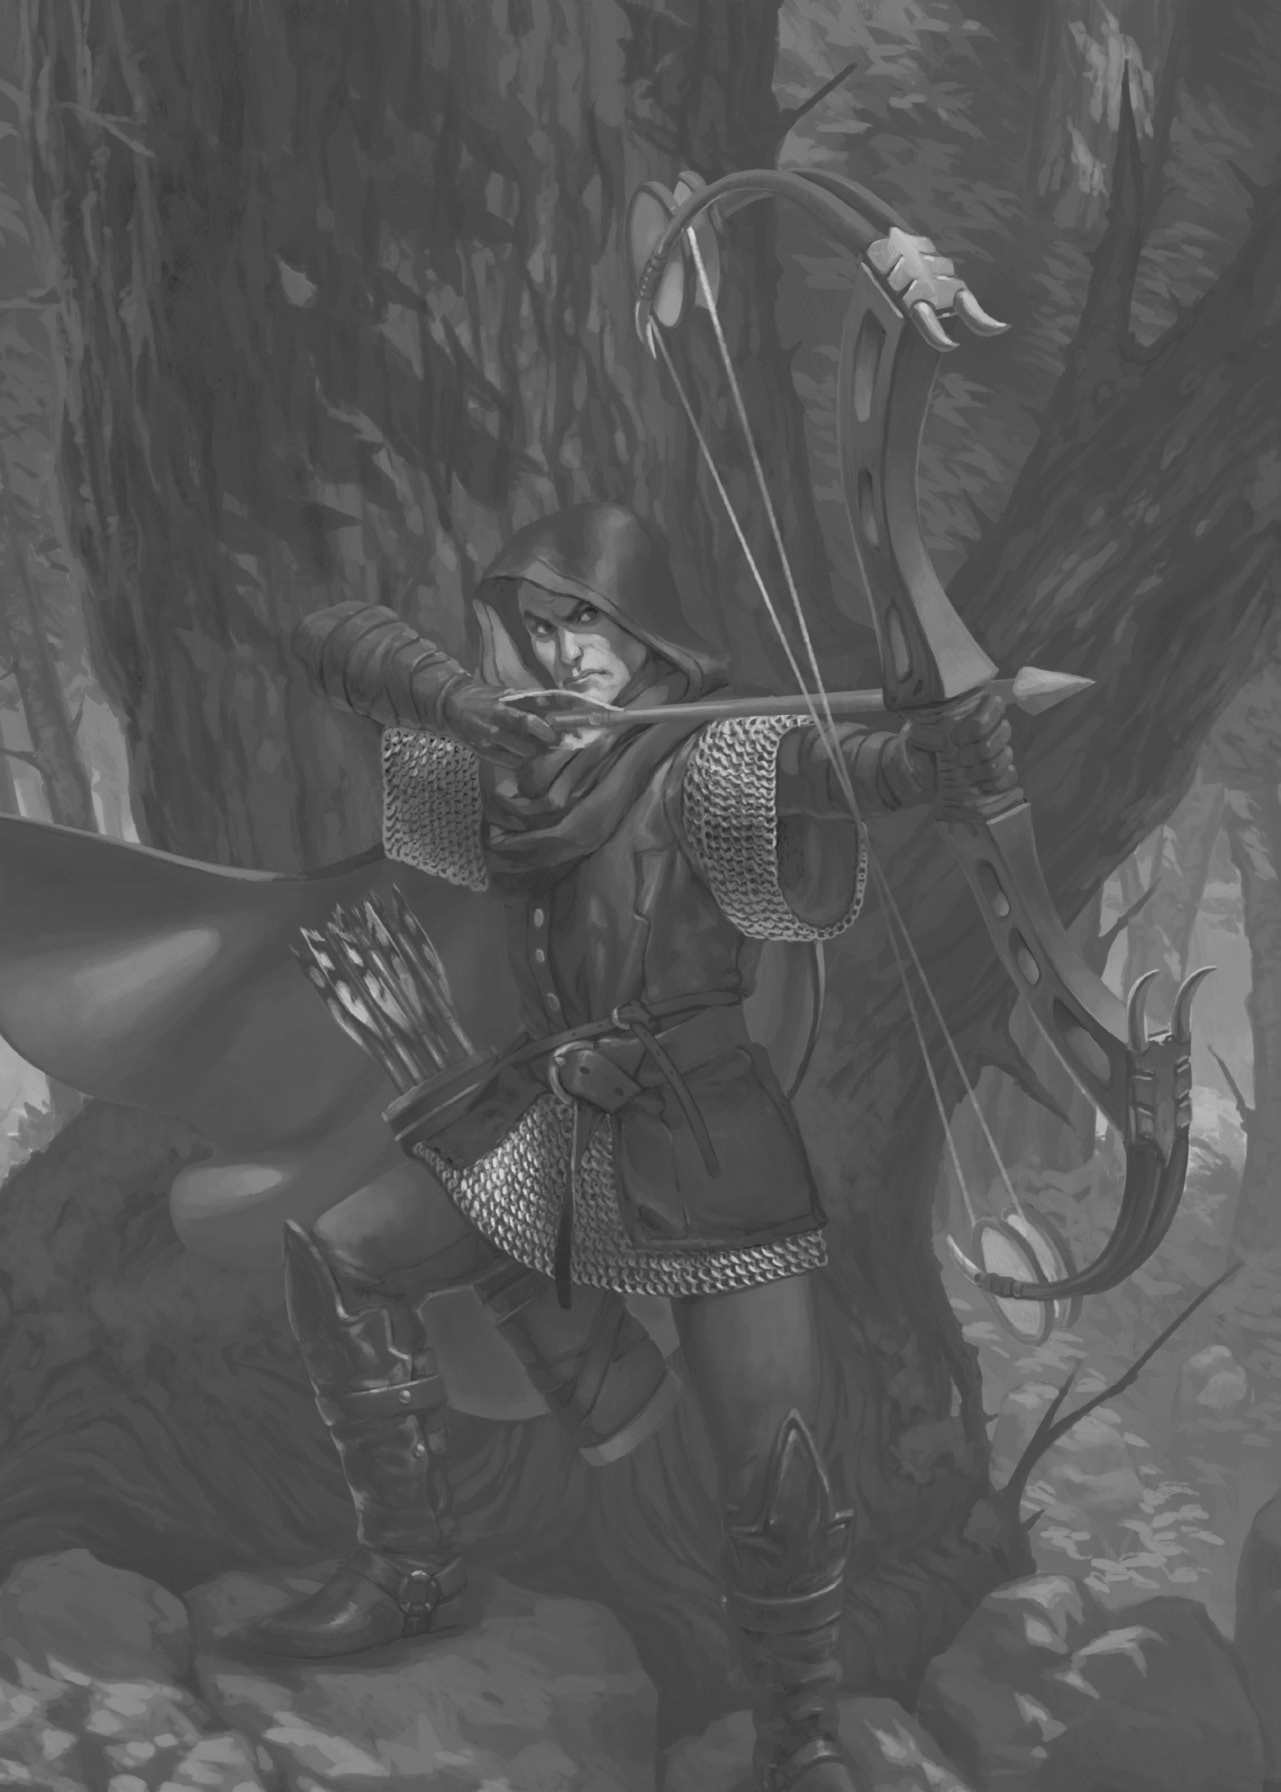
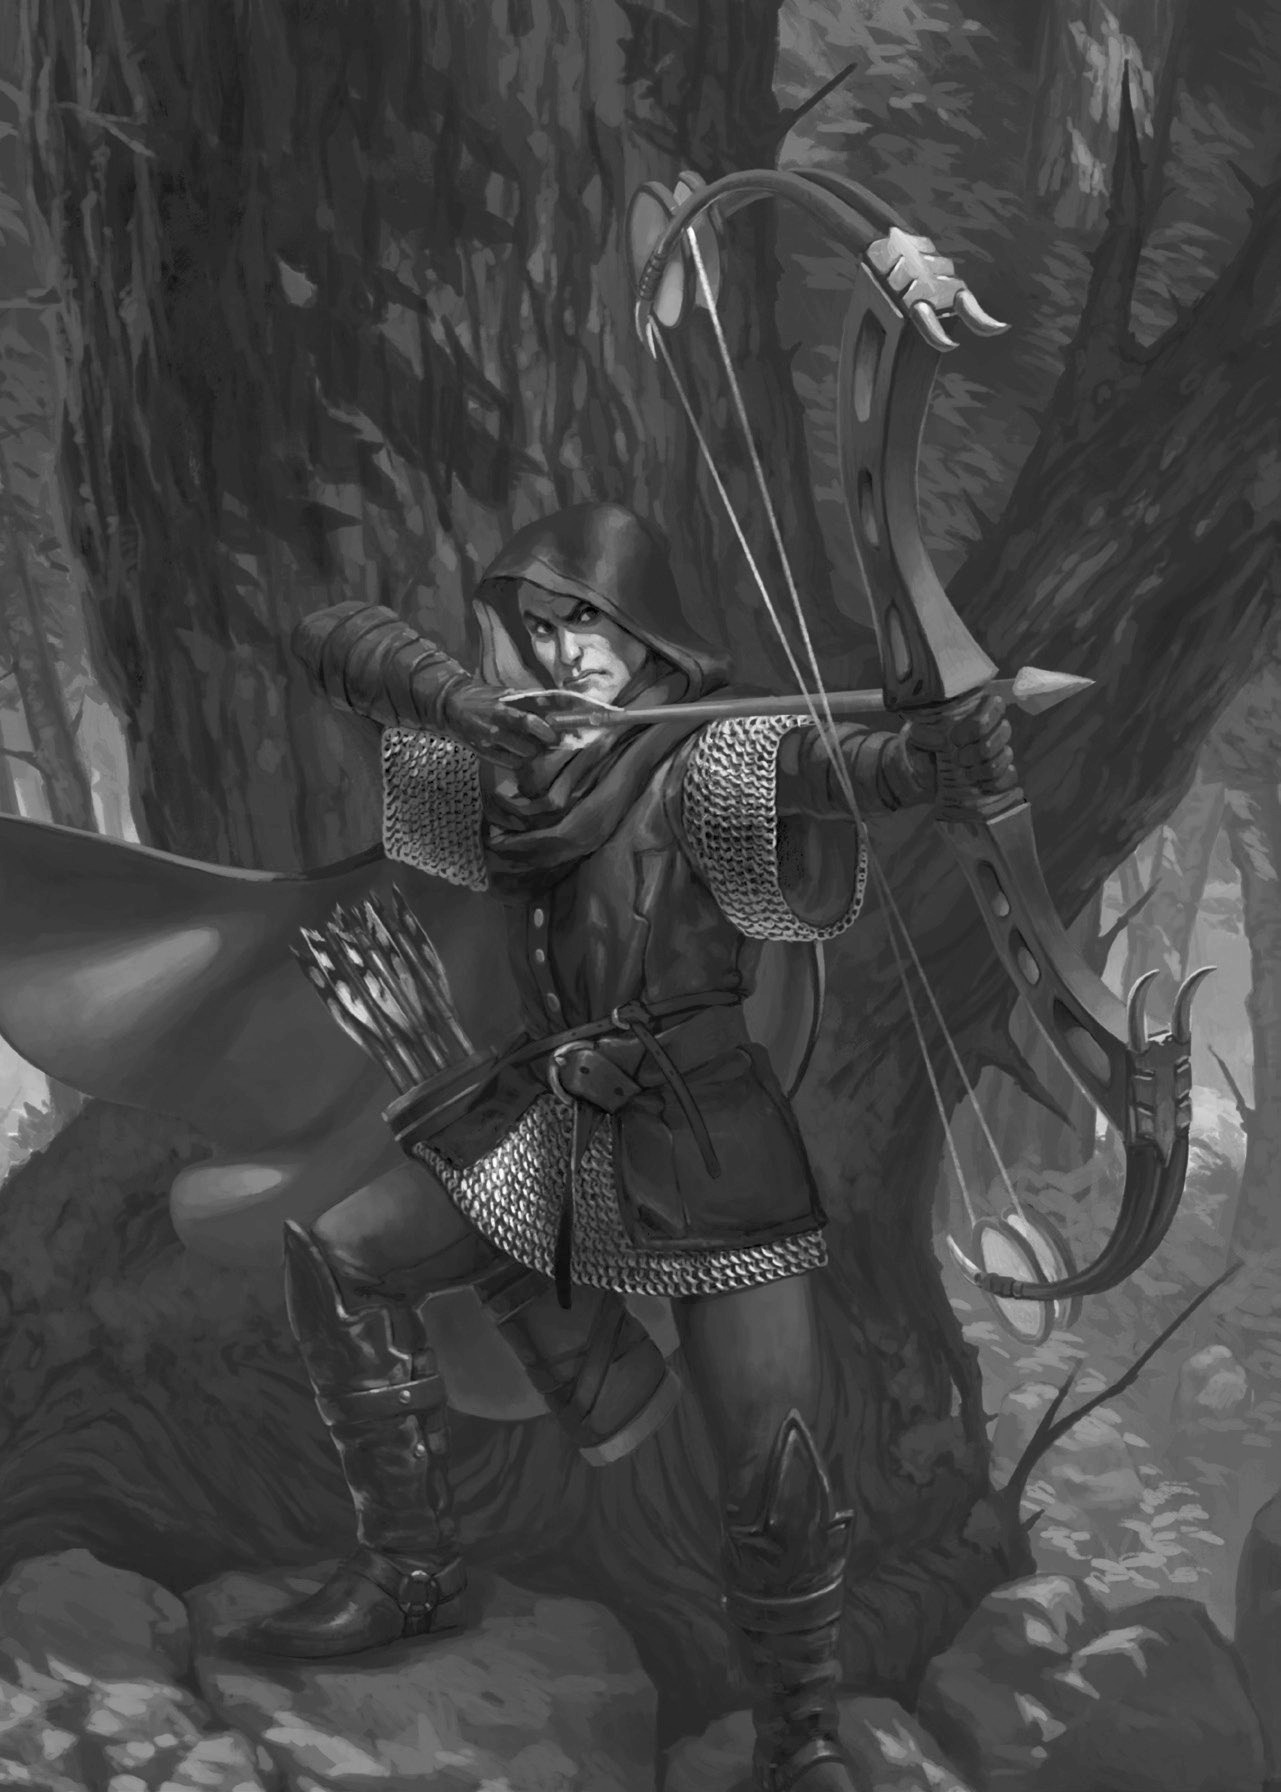
Introduce more contrast to back cover

diff --git a/metadata.tex b/metadata.tex
@@ -103,7 +103,7 @@
 
 \newcommand{\svg}[2][]{%
   \ifthenelse{\equal{#1}{}}%
-  {\includesvg[height=10px]{\svgs/\detokenize{#2}.svg}}%
+  {\raisebox{-.15\height}{\includesvg[height=10px]{\svgs/\detokenize{#2}.svg}}}%
   {\includesvg[height=#1px]{\svgs/\detokenize{#2}.svg}}%
 }%
 
@@ -248,13 +248,13 @@
   \sodef\sotitle{}{0.2em}{0.6em}{1.2em}
   \def\oneliner{\equal{#2}{1}}
 
-  \vspace*{-5em}
+  \vspace*{-5.72em}
   \hspace*{-1.3em}
   \makebox[0pt][l]{
   \raisebox{-\totalheight}[0pt][7pt]{
     \ifthenelse{\oneliner}{\def\yscale{1}}{\def\yscale{1.3}}
       \begin{tikzpicture}
-        \draw (0, 0) node[inner sep=0, yscale=\yscale] (header){\makebox[\textwidth][c]{\includegraphics[width=1.06\linewidth, height=0.25\linewidth]{\layout/section_heading.png}}};
+        \draw (0, 0) node[inner sep=0, yscale=\yscale] (header){\makebox[\textwidth][c]{\includegraphics[width=1.06\linewidth, height=0.24\linewidth]{\layout/section_heading.png}}};
         \draw (-6.2, 0) node {\includegraphics[width=0.125\textwidth]{#5}};
       \end{tikzpicture}
     }

diff --git a/coops/titans_stronghold.tex b/coops/titans_stronghold.tex
@@ -190,7 +190,6 @@ There are undefeated units left in the Titans' Stronghold at the end of Round 16
 
 \vspace*{\fill}
 
-
 \newpage
 
 \begin{minipage}{0.4\paperwidth}
